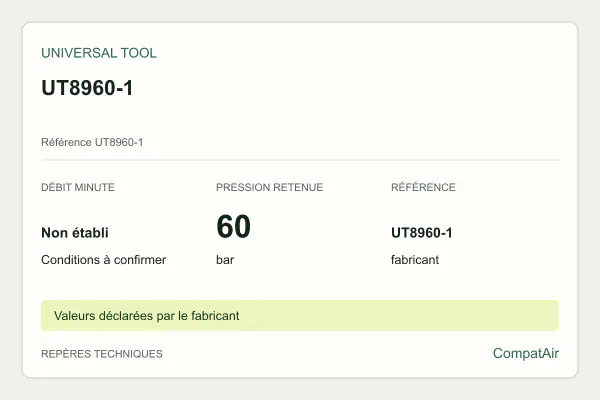
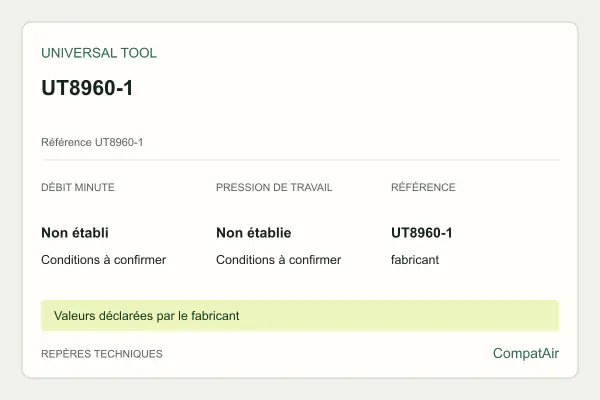
fix(catalog): retain pressure uncertainty and align public contracts

Changed region(s): [[0.36, 0.63, 0.57, 0.66], [0.36, 0.54, 0.51, 0.6], [0.45, 0.45, 0.57, 0.48]]

diff --git a/scripts/public-scope-contract.test.ts b/scripts/public-scope-contract.test.ts
@@ -13,10 +13,10 @@ const fr = (value: number) => en(value).replaceAll(',', ' ');
 describe('public catalog scope copy', () => {
 	it('keeps agent discovery files aligned with the generated catalog and verdict snapshots', () => {
 		expect(read('public/llms.txt')).toContain(
-			`Dataset scope: ${scope.compressor_count} compressors × ${scope.tool_count} tools = ${en(scope.explorable_combination_count)} explorable combinations. The on-demand manifest describes ${en(scope.fixed_verdict_count)} calculable pairs for ${scope.fixed_flow_tool_count} fixed-flow tools. The remaining ${en(scope.parametric_combination_count)} combinations belong to the non-fixed contract bucket: 84 per-action tools, 5 inflation tools and 1323 incomplete records that need manufacturer data`,
+			`Dataset scope: ${scope.compressor_count} compressors × ${scope.tool_count} tools = ${en(scope.explorable_combination_count)} explorable combinations. The on-demand manifest describes ${en(scope.fixed_verdict_count)} calculable pairs for ${scope.fixed_flow_tool_count} fixed-flow tools. The remaining ${en(scope.parametric_combination_count)} combinations belong to the non-fixed contract bucket: 94 per-action tools, 5 inflation tools and 3054 incomplete records that need manufacturer data`,
 		);
 		expect(read('public/llms-full.txt')).toContain(
-			`The catalog has ${scope.compressor_count} compressors and ${scope.tool_count} tools: ${en(scope.explorable_combination_count)} explorable combinations. This is not a claim of ${en(scope.explorable_combination_count)} precomputed verdicts. The on-demand manifest describes ${en(scope.fixed_verdict_count)} calculable pairs for ${scope.fixed_flow_tool_count} fixed-flow tools; ${en(scope.parametric_combination_count)} combinations across ${scope.parametric_tool_count} non-fixed tools include 84 per-action tools, 5 inflation tools and 1323 incomplete records; user inputs cannot replace missing manufacturer data. The archive published on 2026-09-27 reports ${en(verdicts.summary.continuous)} continuous, ${en(verdicts.summary.incompatible)} incompatible and ${en(verdicts.summary.insufficient_data)} insufficient-data pairs, or ${verdicts.conclusive.percentage.toFixed(1)}% conclusive.`,
+			`The catalog has ${scope.compressor_count} compressors and ${scope.tool_count} tools: ${en(scope.explorable_combination_count)} explorable combinations. This is not a claim of ${en(scope.explorable_combination_count)} precomputed verdicts. The on-demand manifest describes ${en(scope.fixed_verdict_count)} calculable pairs for ${scope.fixed_flow_tool_count} fixed-flow tools; ${en(scope.parametric_combination_count)} combinations across ${scope.parametric_tool_count} non-fixed tools include 94 per-action tools, 5 inflation tools and 3054 incomplete records; user inputs cannot replace missing manufacturer data. The archive published on 2026-09-27 reports ${en(verdicts.summary.continuous)} continuous, ${en(verdicts.summary.incompatible)} incompatible and ${en(verdicts.summary.insufficient_data)} insufficient-data pairs, or ${verdicts.conclusive.percentage.toFixed(1)}% conclusive.`,
 		);
 	});
 

diff --git a/src/data/products/tools/visseuse-universal-tool-ut8960-1.ts b/src/data/products/tools/visseuse-universal-tool-ut8960-1.ts
@@ -8,11 +8,7 @@ const product = {
 	"model": "UT8960-1",
 	"mpn": "UT8960-1",
 	"demandModel": "variable-volume",
-	"workingPressureBar": {
-		"min": 60,
-		"typical": 60,
-		"max": 60
-	},
+	"workingPressureBar": {},
 	"demandExplanation": "La pression de mesure de la consommation n’est pas établie. Les valeurs documentaires restent hors du calcul de compatibilité.",
 	"confidence": "B",
 	"image": {
@@ -27,20 +23,22 @@ const product = {
 		"distinguishingAttributes": {
 			"reference": "UT8960-1",
 			"Masse publiée": "0.7 kg",
-			"Longueur publiée": "255 mm"
+			"Longueur contradictoire publiée": "10.6 in / 255 mm"
 		}
 	},
 	"editorial": {
-		"overview": "Universal Tool UT8960-1. La pression de mesure de la consommation n’est pas établie. Les valeurs documentaires restent hors du calcul de compatibilité. Masse publiée : 0.7 kg. Longueur publiée : 255 mm.",
+		"overview": "Universal Tool UT8960-1. La pression de mesure de la consommation n’est pas établie. Les valeurs documentaires restent hors du calcul de compatibilité. Masse publiée : 0.7 kg. Longueur contradictoire publiée : 10.6 in / 255 mm.",
 		"verifiedFacts": [
 			"Masse publiée : 0.7 kg.",
-			"Longueur publiée : 255 mm.",
+			"Longueur contradictoire publiée : 10.6 in / 255 mm.",
 			"Vitesse publiée : 1000 tr/min.",
 			"Puissance publiée : 0.4 HP.",
 			"Échappement : Rear."
 		],
 		"limitations": [
 			"La pression de mesure de la consommation n’est pas établie. Les valeurs documentaires restent hors du calcul de compatibilité.",
+			"La pression recommandée est publiée sous la forme « 90 psi-60 bar », valeurs incompatibles. Aucune correction supposée ni pression de calcul n’est retenue.",
+			"La longueur publiée de 10.6 in ne correspond pas aux 255 mm de la même fiche ; la valeur métrique reste une déclaration contradictoire à vérifier.",
 			"Édition et source identifiées, disponibilité actuelle à confirmer. Vérifier la notice et la configuration exacte livrée."
 		]
 	},
@@ -53,8 +51,8 @@ const product = {
 			]
 		},
 		{
-			"label": "Longueur publiée",
-			"value": "255 mm",
+			"label": "Longueur contradictoire publiée",
+			"value": "10.6 in / 255 mm",
 			"evidenceIds": [
 				"october2-tools-ctg-pdp-406-p1"
 			]

diff --git a/src/domain/data-governance.test.ts b/src/domain/data-governance.test.ts
@@ -16,13 +16,13 @@ describe('public catalog data governance', () => {
 	});
 	it('publishes the exact explored, fixed and parametric grains without conflating them', () => {
 		expect(createCatalogScope(compressors, tools)).toEqual({
-			compressor_count: 2219,
-			tool_count: 9087,
-			explorable_combination_count: 20_164_053,
-			fixed_flow_tool_count: 7675,
-			fixed_verdict_count: 17_030_825,
-			parametric_tool_count: 1412,
-			parametric_combination_count: 3_133_228,
+			compressor_count: 2619,
+			tool_count: 11087,
+			explorable_combination_count: 29_036_853,
+			fixed_flow_tool_count: 7934,
+			fixed_verdict_count: 20_779_146,
+			parametric_tool_count: 3153,
+			parametric_combination_count: 8_257_707,
 			parametric_inputs: ['action_rate', 'volume_and_target_time'],
 		});
 	});
@@ -37,7 +37,7 @@ describe('public catalog data governance', () => {
 			expect(row.independently_corroborated_count).toBeLessThanOrEqual(row.populated_count);
 		}
 		const distributorSku = report.field_coverage.find((row) => row.field === 'distributorSku')!;
-		expect(distributorSku).toMatchObject({ eligible_count: 11306, populated_count: 2, explicitly_sourced_count: 2, primary_source_count: 0, independently_corroborated_count: 0 });
+		expect(distributorSku).toMatchObject({ eligible_count: 13706, populated_count: 2, explicitly_sourced_count: 2, primary_source_count: 0, independently_corroborated_count: 0 });
 	});
 
 	it('does not confuse primary, independent and secondary evidence', () => {

diff --git a/server/mcp-output-schemas.test.ts b/server/mcp-output-schemas.test.ts
@@ -46,6 +46,21 @@ function validate(schema: any, value: any, path = '$'): string[] {
 }
 
 describe('MCP tool-specific output schemas', () => {
+	it('preserves unknown pressure only for incomplete tool profiles', () => {
+		const schema = outputSchemas.get_tool_requirements.properties.tool;
+		const incomplete = tools.find(item => item.demandModel === 'variable-volume' && item.workingPressureBar.max === undefined)!;
+		expect(incomplete).toBeDefined();
+		expect(validate(schema, JSON.parse(JSON.stringify(incomplete)))).toEqual([]);
+		for (const demandModel of ['fixed-flow', 'per-action']) {
+			const complete = tools.find(item => item.demandModel === demandModel)!;
+			const copy = JSON.parse(JSON.stringify(complete));
+			delete copy.workingPressureBar.max;
+			expect(validate(schema, copy).length).toBeGreaterThan(0);
+		}
+		const copy = JSON.parse(JSON.stringify(incomplete));
+		copy.workingPressureBar.unverified = 6;
+		expect(validate(schema, copy).length).toBeGreaterThan(0);
+	});
 	it('preserves unknown lubrication in product outputs and excludes it from known-oil searches', () => {
 		const product = compressors.find(item => item.oilType === 'unknown')!;
 		expect(product).toBeDefined();

diff --git a/src/data/catalog.ts b/src/data/catalog.ts
@@ -3,7 +3,7 @@ import { rawCompressors } from './products/compressors';
 import { rawTools } from './products/tools';
 import { toolCategoryLabel } from './taxonomy';
 
-export const CATALOG_VERIFIED_AT = '2026-10-01';
+export const CATALOG_VERIFIED_AT = '2026-10-02';
 
 export const compressors = rawCompressors.map((item) => compressorSchema.parse(item));
 export const tools = rawTools.map((item) => {

diff --git a/src/domain/catalog-insights.test.ts b/src/domain/catalog-insights.test.ts
@@ -11,7 +11,7 @@ describe('catalog insights', () => {
 	it('derives catalog volumes instead of duplicating constants', () => {
 		expect(metrics.compressorCount).toBe(compressors.length);
 		expect(metrics.toolCount).toBe(tools.length);
-		expect(metrics.toolCount).toBe(9087);
+		expect(metrics.toolCount).toBe(11087);
 		expect(metrics.compatibilityPageCount).toBeGreaterThan(0);
 	});
 

diff --git a/src/domain/sizing.test.ts b/src/domain/sizing.test.ts
@@ -114,8 +114,8 @@ describe('compatibility engine', () => {
 	});
 
 	it('exposes the expanded sourced catalog', () => {
-		expect(compressors).toHaveLength(2219);
-		expect(tools).toHaveLength(9087);
+		expect(compressors).toHaveLength(2619);
+		expect(tools).toHaveLength(11087);
 	});
 
 	it('keeps the new ABAC Tech flows bound to the documented 7 bar point', () => {

diff --git a/docs/SEO_PROGRAMMATIQUE.md b/docs/SEO_PROGRAMMATIQUE.md
@@ -2,7 +2,7 @@
 
 La [politique de montée progressive](SEO_CROISSANCE_ORGANIQUE.md) décrit le contrôle automatique ajouté au build : guides et fiches sont admis par lots, après analyse des sources et de la répétition. Son activation publique dépend du déploiement de cette version.
 
-Les verdicts compresseur-outil répondent à un besoin produit réel, mais leur nombre croît comme le produit du nombre de compresseurs par le nombre d’outils. CompatAir expose 20 164 053 combinaisons explorables : le manifeste décrit 17 030 825 couples fixes calculables, tandis que 3 133 228 combinaisons de profils non fixes incluent des besoins par action, du gonflage et des fiches dont une donnée constructeur manque. Le calculateur et les interfaces MCP/UCP traitent ces paramètres sans générer un fichier HTML par résultat ; l’endpoint API HTTP limité aux identifiants répond `insufficient_data` pour ces outils. Parmi les outils de cette famille de schéma, 852 ne documentent qu’une consommation moyenne : leur champ `airflowBasis: average` impose `insufficient_data` sans débit en charge et cycle documentés.
+Les verdicts compresseur-outil répondent à un besoin produit réel, mais leur nombre croît comme le produit du nombre de compresseurs par le nombre d’outils. CompatAir expose 29 036 853 combinaisons explorables : le manifeste décrit 20 779 146 couples fixes calculables, tandis que 8 257 707 combinaisons de profils non fixes incluent des besoins par action, du gonflage et des fiches dont une donnée constructeur manque. Le calculateur et les interfaces MCP/UCP traitent ces paramètres sans générer un fichier HTML par résultat ; l’endpoint API HTTP limité aux identifiants répond `insufficient_data` pour ces outils. Parmi les outils de cette famille de schéma, 895 ne documentent qu’une consommation moyenne : leur champ `airflowBasis: average` impose `insufficient_data` sans débit en charge et cycle documentés.
 
 ## Frontière d’indexation
 
@@ -12,14 +12,14 @@ Les verdicts compresseur-outil répondent à un besoin produit réel, mais leur 
 - Une ancienne URL exacte dont les deux slugs existent encore reçoit une redirection permanente vers le calculateur prérempli avec les identifiants canoniques dans le fragment d’URL.
 - Une URL ancienne inconnue, ambiguë ou mal formée reçoit une réponse `410 Gone` ciblée. Les paramètres de suivi d’une URL connue sont supprimés lors de la redirection canonique.
 - Les couples restent exclus du sitemap et ne publient pas de balisage `TechArticle` destiné à enrichir leur présence dans les résultats.
-- Le manifeste `/data/verdicts.json` décrit les 17 030 825 couples fixes calculables à la demande ; l’audit exhaustif antérieur est conservé dans une archive immuable. Le groupe des 3 133 228 combinaisons non fixes comprend 84 outils par action, 5 outils de gonflage et 1323 fiches incomplètes. Une saisie de cadence ou de volume ne remplace pas une consommation constructeur absente.
+- Le manifeste `/data/verdicts.json` décrit les 20 779 146 couples fixes calculables à la demande ; l’audit exhaustif antérieur est conservé dans une archive immuable. Le groupe des 8 257 707 combinaisons non fixes comprend 94 outils par action, 5 outils de gonflage et 3054 fiches incomplètes. Une saisie de cadence ou de volume ne remplace pas une consommation constructeur absente.
 - Les premières pages de `/preuves/` et `/sources-fiabilite/` restent indexables. Leurs pages 2 et suivantes conservent les liens de parcours, mais publient `noindex,follow` et restent hors sitemap afin de ne pas multiplier les entrées de répertoire sans intention de recherche propre.
 
 Cette séparation évite une croissance quadratique du HTML. Le corpus indexable reste centré sur les pages qui apportent une synthèse ou une information propre, tandis que le contrat machine décrit explicitement le grain fixe ou paramétrique de chaque décision.
 
 ## Dossiers et comparatifs documentés
 
-Les 2219 fiches compresseurs et les 9087 pages d’usage réutilisent les références existantes. Le build refuse une référence dépourvue de synthèse propre, de deux faits éditoriaux, de limites ou de sources rattachées à ses champs critiques. Le dossier relie les preuves datées, les contradictions arbitrées, l’historique et les besoins voisins. Les 1412 profils non fixes conservent leur demande de paramètres ou de données constructeur manquantes : aucun débit d’usage n’est inventé.
+Les 2619 fiches compresseurs et les 11087 pages d’usage réutilisent les références existantes. Le build refuse une référence dépourvue de synthèse propre, de deux faits éditoriaux, de limites ou de sources rattachées à ses champs critiques. Le dossier relie les preuves datées, les contradictions arbitrées, l’historique et les besoins voisins. Les 3153 profils non fixes conservent leur demande de paramètres ou de données constructeur manquantes : aucun débit d’usage n’est inventé.
 
 Les comparatifs supplémentaires proviennent exclusivement de la sélection explicite de `src/data/decision-comparisons.ts`. Chacun porte une question et une conclusion propres, au maximum quatre compresseurs et deux besoins documentés, sans note globale ni gagnant universel. Ils utilisent le moteur déterministe existant. Les mentions de FAD distinguent point publié, interpolation et borne conservatrice ; une réserve recommandée ne devient pas silencieusement le seuil nominal de compatibilité.
 

diff --git a/docs/FEATURE_MATRIX.md b/docs/FEATURE_MATRIX.md
@@ -19,13 +19,13 @@
 - frontière produit explicite : aucune sauvegarde serveur dans la version gratuite ; la sauvegarde de plusieurs ateliers, les exports de dossiers et les alertes restent le périmètre envisagé d’une version professionnelle non disponible ;
 - verdicts `continuous`, `intermittent`, `incompatible` et `insufficient_data` ;
 - conversions, interpolation bornée, débit de pointe, débit moyen, réserve de cuve, récupération conditionnelle et version des formules ;
-- recherche globale, comparateur de deux ou trois modèles, pages par marque et pages par usage ; le périmètre compte 20 164 053 combinaisons explorables, dont 17 030 825 couples fixes calculables et 3 133 228 combinaisons de profils non fixes, nécessitant des paramètres ou des données constructeur supplémentaires ;
+- recherche globale, comparateur de deux ou trois modèles, pages par marque et pages par usage ; le périmètre compte 29 036 853 combinaisons explorables, dont 20 779 146 couples fixes calculables et 8 257 707 combinaisons de profils non fixes, nécessitant des paramètres ou des données constructeur supplémentaires ;
 - frontière SEO programmatique : aucune génération quadratique sous `/compatibilite/`, anciennes URL exactes migrées vers le calculateur et retraits inconnus servis en `410`, avec fiches et pages d’usage comme surfaces indexables ;
 - guides Astro validés par Zod, parcours Particuliers et Professionnels, quatre hubs métiers sans duplication d’article, glossaire sourcé, sommaires, statut de revue explicite et contenus associés ;
 - schémas d’offres, liste blanche des marchands, fraîcheur de 48 heures, redirection fermée et compteur agrégé ;
 - catalogue JSON normalisé par EAN/GTIN/MPN et SKU distributeur, familles de variantes, index de provenance et couverture champ par champ avec dénominateurs explicites ;
 - rôles de preuve séparant source primaire, corroboration indépendante et reprise secondaire marchande ; SLA public de fraîcheur par type de donnée ;
-- snapshot JSON du catalogue et manifeste des 17 030 825 couples fixes calculables, validation, checksums, détection des doublons et rapports de différences ;
+- snapshot JSON du catalogue et manifeste des 20 779 146 couples fixes calculables, validation, checksums, détection des doublons et rapports de différences ;
 - contribution facultative aux priorités du catalogue, agrégée sans événement brut, cookie, identifiant de navigateur ni adresse IP persistée ;
 - rapport privé de priorisation avec seuil minimal de cinq contributions par dimension, couverture pondérée par la demande observée et objectif opérationnel explicite de 80 % ;
 - funnel du calculateur agrégé sans URL, referrer, cookie ni identifiant, avec affichage, famille fermée, sélection et recalcul réussi de la recommandation contrefactuelle, rapport privé et contrôle de cohérence des taux ;

diff --git a/docs/editorial/expansion-2026-10-02.md b/docs/editorial/expansion-2026-10-02.md
@@ -12,7 +12,7 @@ Les régimes conservés sont : 147 consommations en charge, 23 maximales, 128 à
 
 Les deux snapshots d’import versionnent les empreintes SHA-256, dates d’observation, valeurs originales, unités, pages et lignes ou cellules de source. L’historique des preuves est prolongé sans remplacer ses observations précédentes. Les fichiers originaux de recherche restent locaux et ne sont pas redistribués dans Git.
 
-La relecture a notamment séparé le débit d’air et le débit de produit des TOF50, conservé les plages W200 sans interpolation, documenté le point de pulvérisation à 3,5 bar du W200 ZP2, rejeté plusieurs références Iwata ambiguës, distingué les catégories de ponceuse dont le mouvement est inconnu et conservé les plages de pression sans créer de valeur nominale. Les dimensions des agrafeuses Hymair ont été séparées de la longueur des fixations. La masse Paoli DP1800 PLUS et six paires de masses Universal Tool contradictoires sont signalées sans correction supposée. Le RVM07B conserve 3,8 L/s, soit 228 L/min, avec une régression couvrant les colonnes voisines. La MT-G38 à gaz est exclue du catalogue pneumatique. Les exceptions de pression Paoli restent propres à chaque modèle.
+La relecture a notamment séparé le débit d’air et le débit de produit des TOF50, conservé les plages W200 sans interpolation, documenté le point de pulvérisation à 3,5 bar du W200 ZP2, rejeté plusieurs références Iwata ambiguës, distingué les catégories de ponceuse dont le mouvement est inconnu et conservé les plages de pression sans créer de valeur nominale. Les dimensions des agrafeuses Hymair ont été séparées de la longueur des fixations. La masse Paoli DP1800 PLUS et six paires de masses Universal Tool contradictoires sont signalées sans correction supposée. Le UT8960-1 conserve la contradiction « 90 psi-60 bar » sans pression de calcul ; sa paire de longueurs incohérente est aussi signalée. Le RVM07B conserve 3,8 L/s, soit 228 L/min, avec une régression couvrant les colonnes voisines. La MT-G38 à gaz est exclue du catalogue pneumatique. Les exceptions de pression Paoli restent propres à chaque modèle.
 
 Les documents anciens, étrangers ou spécifiques à une fréquence d’alimentation restent identifiés. Ils ne prouvent ni disponibilité actuelle en France, ni meilleures ventes, ni certification actuelle d’un procédé ou d’un produit. La relecture interne assistée par IA ne constitue pas une validation professionnelle externe ou un essai physique.
 

diff --git a/docs/DATA_ASSET.md b/docs/DATA_ASSET.md
@@ -35,7 +35,7 @@ Le baromètre annuel est calculé uniquement depuis les compresseurs et preuves 
 
 ## Verdicts versionnés
 
-Le catalogue contient actuellement 2219 compresseurs et 9087 outils, soit 20 164 053 combinaisons explorables. Ce nombre ne décrit pas 20 164 053 verdicts pré-calculés. `/data/verdicts.json` décrit le périmètre des 17 030 825 couples fixes calculables formés par les 2219 compresseurs et les 7675 outils à débit fixe. Une requête insuffisamment documentée reçoit `insufficient_data`. Les 1412 autres outils représentent 3 133 228 combinaisons de profils non fixes. Ce groupe comprend 84 outils par action, 5 outils de gonflage et 1323 fiches incomplètes nécessitant une donnée constructeur, pas seulement une saisie utilisateur. Parmi les outils de cette famille de schéma, 852 ne documentent qu’une consommation moyenne : leur champ `airflowBasis: average` impose `insufficient_data` sans débit en charge et cycle documentés.
+Le catalogue contient actuellement 2619 compresseurs et 11087 outils, soit 29 036 853 combinaisons explorables. Ce nombre ne décrit pas 29 036 853 verdicts pré-calculés. `/data/verdicts.json` décrit le périmètre des 20 779 146 couples fixes calculables formés par les 2619 compresseurs et les 7934 outils à débit fixe. Une requête insuffisamment documentée reçoit `insufficient_data`. Les 3153 autres outils représentent 8 257 707 combinaisons de profils non fixes. Ce groupe comprend 94 outils par action, 5 outils de gonflage et 3054 fiches incomplètes nécessitant une donnée constructeur, pas seulement une saisie utilisateur. Parmi les outils de cette famille de schéma, 895 ne documentent qu’une consommation moyenne : leur champ `airflowBasis: average` impose `insufficient_data` sans débit en charge et cycle documentés.
 
 L’archive publiée et contrôlée le 27 septembre 2026 utilise le catalogue du 26 septembre et le moteur `1.4.0`. Elle conserve 78 120 verdicts « compatible en continu », aucun « compatible par intermittence », 379 107 « incompatible » et 4 143 279 « données insuffisantes », soit 457 227 paires conclusives (9,9 %). Ces totaux proviennent des champs `summary` et `conclusive` du snapshot ; ils ne mesurent pas la précision du moteur. Une endurance absente reste inconnue, même lorsqu’un point FAD est documenté. Ces compteurs historiques restent attachés à cette archive ; aucune répartition courante n’est déduite pour les nouvelles versions du catalogue. Le snapshot lie :
 

diff --git a/docs/DEVELOPMENT.md b/docs/DEVELOPMENT.md
@@ -26,7 +26,7 @@ Le site est généré statiquement dans `dist/`. La logique métier se trouve da
 L'import du flux produits ManoMano est décrit dans [docs/MANOMANO_IMPORT.md](docs/MANOMANO_IMPORT.md).
 La normalisation, les snapshots de verdicts et la demande agrégée sont décrits dans [docs/DATA_ASSET.md](docs/DATA_ASSET.md). La frontière d’indexation des pages générées est définie dans [docs/SEO_PROGRAMMATIQUE.md](docs/SEO_PROGRAMMATIQUE.md).
 
-Le périmètre public distingue explicitement 20 164 053 combinaisons explorables, 17 030 825 couples fixes calculables et 3 133 228 combinaisons de profils non fixes, dont certaines restent bloquées par un manque documentaire. Le snapshot catalogue publie aussi la couverture champ par champ des EAN/GTIN, MPN normalisés, SKU distributeur et données techniques, avec source primaire, corroboration indépendante et SLA de fraîcheur séparés.
+Le périmètre public distingue explicitement 29 036 853 combinaisons explorables, 20 779 146 couples fixes calculables et 8 257 707 combinaisons de profils non fixes, dont certaines restent bloquées par un manque documentaire. Le snapshot catalogue publie aussi la couverture champ par champ des EAN/GTIN, MPN normalisés, SKU distributeur et données techniques, avec source primaire, corroboration indépendante et SLA de fraîcheur séparés.
 L’API publique et les deux modes d’intégration du widget marchand sont décrits dans [docs/API_WIDGET.md](docs/API_WIDGET.md).
 
 ## Catalogue pilote
